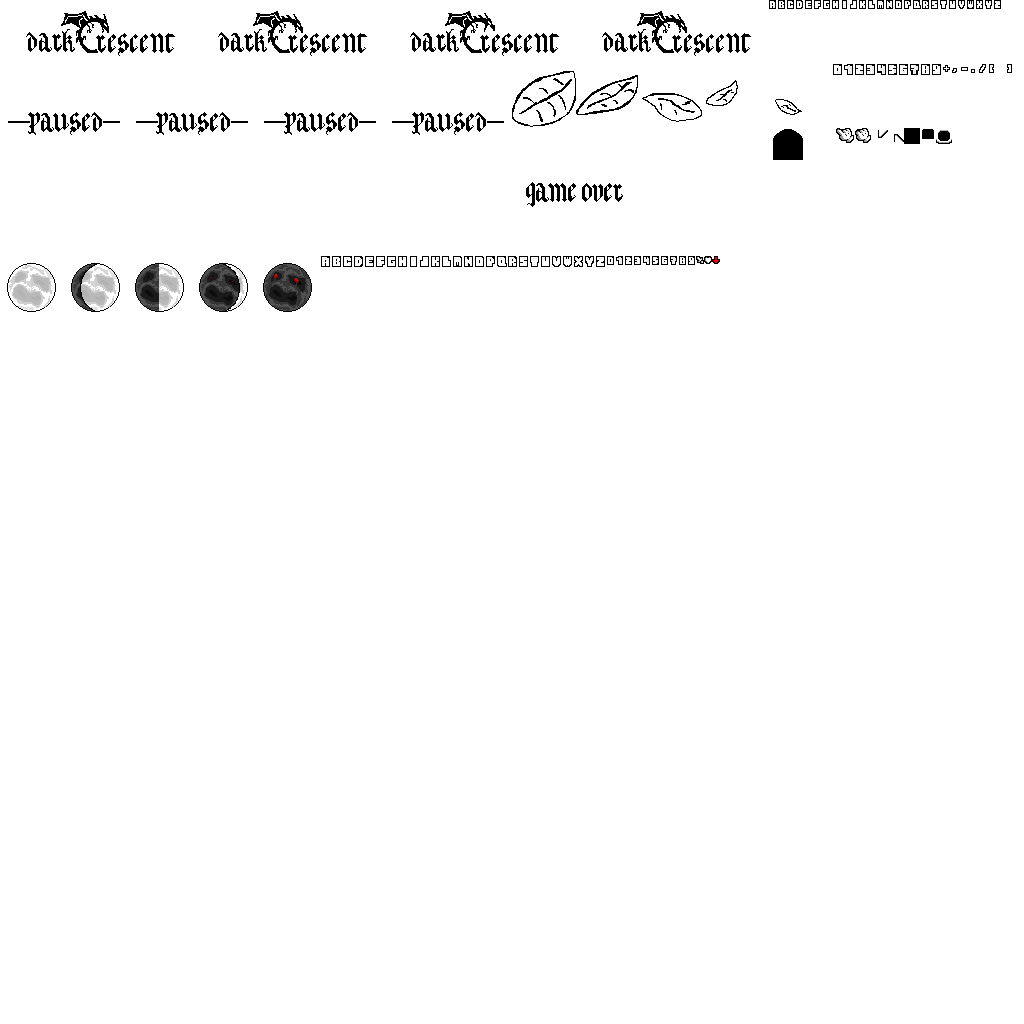
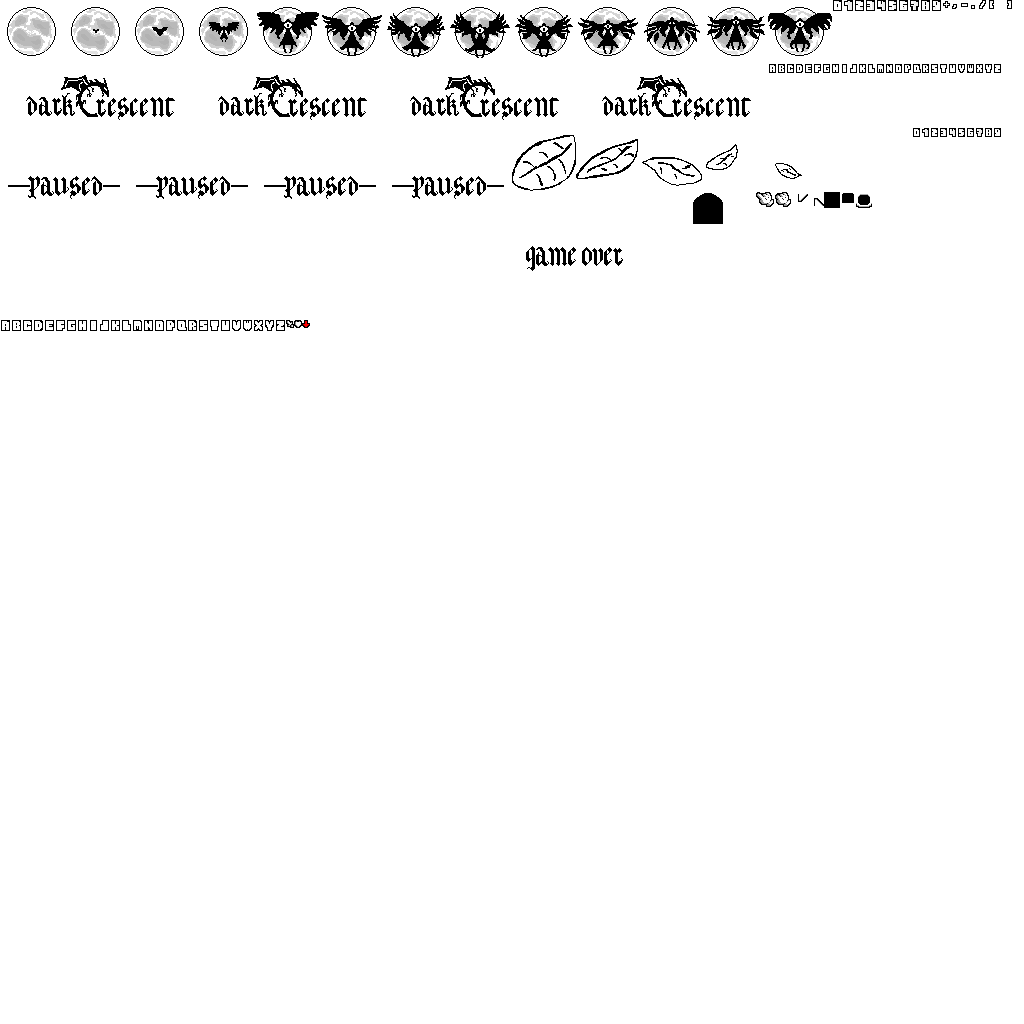
[Add] Boss sprite in the background

diff --git a/GraphicsEngine/Game/Src/Levels/MainLevel.cpp b/GraphicsEngine/Game/Src/Levels/MainLevel.cpp
@@ -547,8 +547,8 @@ namespace game
 			}
 		}
 
-		DrawParallaxBackground(state, info, false);
-		DrawParallaxBackground(state, info, true);
+		DrawParallaxBackground(*level, state, info, false);
+		DrawParallaxBackground(*level, state, info, true);
 		
 		{
 			const float l = jv::Min(1.f, level->GetTime() * 3);
@@ -1671,7 +1671,7 @@ namespace game
 		++state.depth;
 	}
 
-	void MainLevel::CombatState::DrawParallaxBackground(State& state, const LevelUpdateInfo& info, const bool mirror) const
+	void MainLevel::CombatState::DrawParallaxBackground(const Level& level, State& state, const LevelUpdateInfo& info, const bool mirror) const
 	{
 		glm::vec2 mouseOffset = info.inputState.mousePos - SIMULATED_RESOLUTION / 2;
 
@@ -1679,29 +1679,30 @@ namespace game
 			if(backgroundType == BackgroundType::moonLight)
 			{
 				auto& atlasTexture = info.atlasTextures[static_cast<uint32_t>(TextureId::moon)];
-				jv::ge::SubTexture moonFrames[5];
-				Divide(atlasTexture.subTexture, moonFrames, 5);
-
-				glm::ivec2 positionOffsets[5]{
-					glm::ivec2(90, 10),
-					glm::ivec2(60, 30),
-					glm::ivec2(0, 60),
-					glm::ivec2(-60, 30),
-					glm::ivec2(-90, 10)
-				};
+				jv::ge::SubTexture moonFrames[13];
+				Divide(atlasTexture.subTexture, moonFrames, 13);
 
 				uint32_t index = state.depth / ROOM_COUNT_BEFORE_BOSS;
-				index %= 5;
 
-				// ignore previous stuff, just one moon rn
-				index = 0;
+				if (index >= 4)
+				{
+					auto i = static_cast<uint32_t>(level.GetTime() * CARD_ANIM_SPEED);
+					i %= 9;
+					index = 4 + i;
+				}
 
-				if (state.depth + 1 < ROOM_COUNT_BEFORE_BOSS * TOTAL_BOSS_COUNT) 
+				const bool containsBoss = (state.depth + 1) % ROOM_COUNT_BEFORE_BOSS == 0;
+				const bool finalBossEncountered = state.depth + 1 >= ROOM_COUNT_BEFORE_BOSS * TOTAL_BOSS_COUNT;
+
+				if (finalBossEncountered)
+					index = 0;
+
+				if (!finalBossEncountered || !containsBoss)
 				{
 					PixelPerfectRenderTask renderTask{};
-					renderTask.scale = atlasTexture.resolution / glm::ivec2(5, 1);
+					renderTask.scale = atlasTexture.resolution / glm::ivec2(13, 1);
 					renderTask.subTexture = moonFrames[index];
-					renderTask.position = glm::ivec2(SIMULATED_RESOLUTION / 2) + positionOffsets[index];
+					renderTask.position = glm::ivec2(SIMULATED_RESOLUTION / 2) + glm::ivec2(90, 10);
 					renderTask.xCenter = true;
 					info.renderTasks.Push(renderTask);
 				}	
@@ -2034,8 +2035,8 @@ namespace game
 		stateMachine = LevelStateMachine<State>::Create(info, states, State::Create(info));
 		ingameMenuOpened = false;
 
-		stateMachine.state.depth = 29;
-		stateMachine.next = stateMachine.current;
+		//stateMachine.state.depth = 29;
+		//stateMachine.next = stateMachine.current;
 	}
 
 	bool MainLevel::Update(const LevelUpdateInfo& info, LevelIndex& loadLevelIndex)

diff --git a/GraphicsEngine/Game/Include/Levels/MainLevel.h b/GraphicsEngine/Game/Include/Levels/MainLevel.h
@@ -110,7 +110,7 @@ namespace game
 			[[nodiscard]] static uint32_t GetEventCardCount(const State& state);
 			static void Shake(const LevelUpdateInfo& info);
 			void OnExit(State& state, const LevelInfo& info) override;
-			void DrawParallaxBackground(State& state, const LevelUpdateInfo& info, bool mirror) const;
+			void DrawParallaxBackground(const Level& level, State& state, const LevelUpdateInfo& info, bool mirror) const;
 		};
 
 		struct RewardMagicCardState final : LevelState<State>
